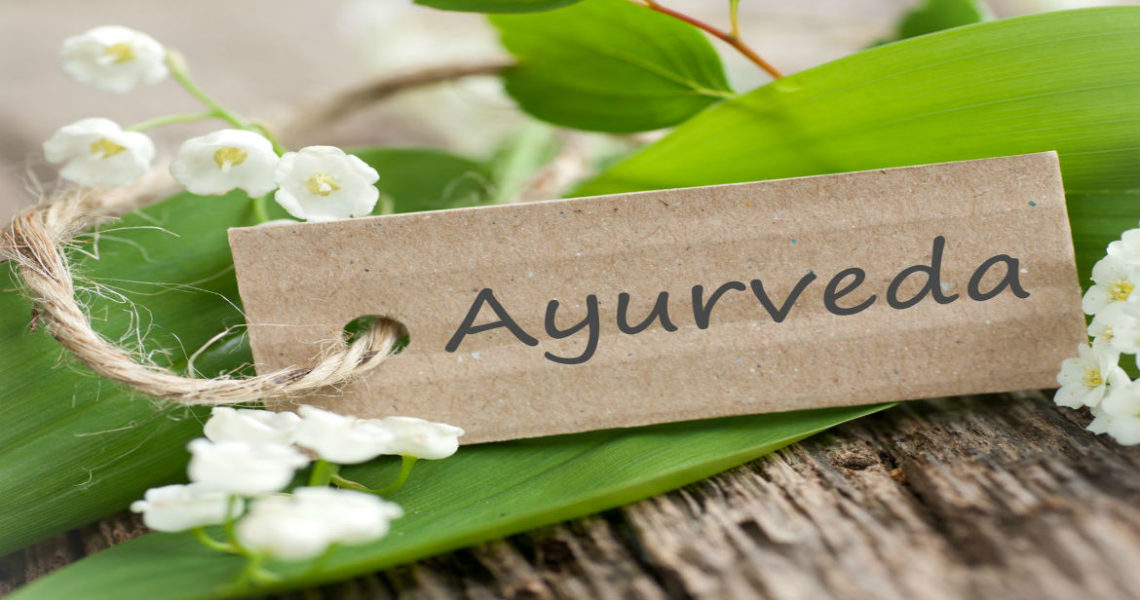
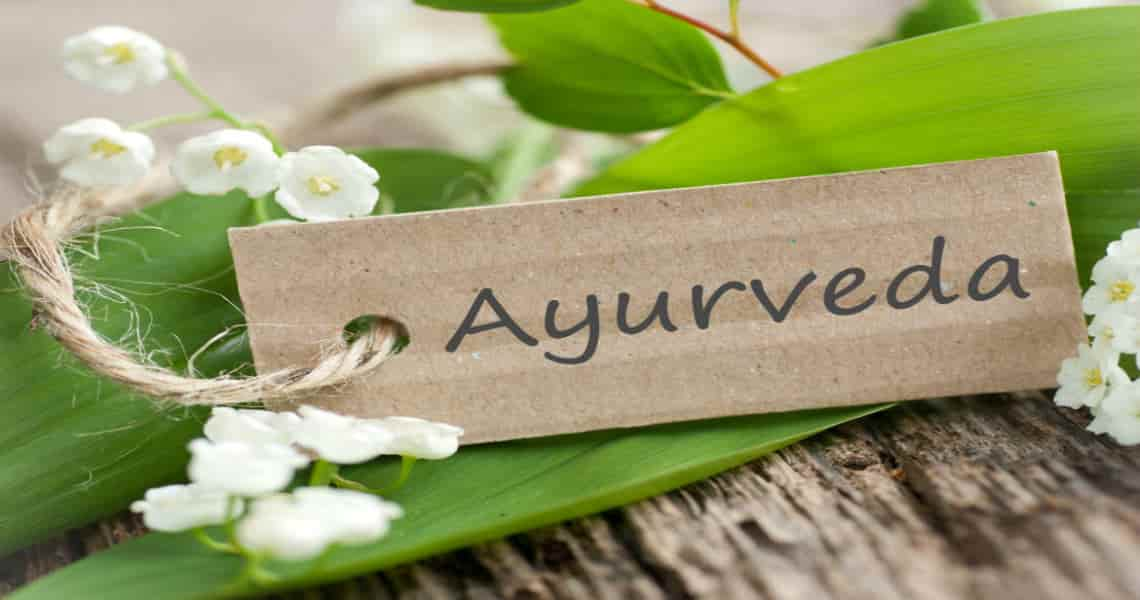
optimized images

Changed region(s): [[0.0, 0.42, 0.0614, 0.45], [0.9825, 0.48, 1.0, 0.51], [0.0921, 0.48, 0.1228, 0.51]]

diff --git a/assets/css/style.css b/assets/css/style.css
@@ -315,7 +315,7 @@ a.back-to-top:hover, a.back-to-top:focus {
 
 .site-logo h2 {
   font-family: 'Yeseva One', cursive;
-  color: #fff;
+  color: #43A047;
   font-weight: 700;
   font-size: 34px;
   line-height: 10px;
@@ -1462,6 +1462,7 @@ figure.single-portfolio:hover figcaption {
 
 #contactForm .form-control {
   background-size: 0 2px, 100% 2px;
+  border-bottom: 1px solid #000;
   font-weight: 500;
 }
 
@@ -2120,19 +2121,20 @@ section#testimonial {
   opacity: 1;
   /* width: 100%;
   height: auto; */
-  -webkit-transform: scale(1);
-  -ms-transform: scale(1);
-  transform: scale(1);
+  -webkit-transform: scale(1.15);
+  -ms-transform: scale(1.15);
+  transform: scale(1.15);
   -webkit-transition: all .5s;
   -o-transition: all .5s;
   transition: all 3s;
 }
 
+
 .services-photo img:hover {
-  -webkit-transform: scale(0.9);
-  -ms-transform: scale(0.9);
-  transform: scale(0.9);
-  opacity: 0.8;
+  -webkit-transform: scale(1.03);
+  -ms-transform: scale(1.03);
+  transform: scale(1.03);
+  opacity: 0.9;
 }
 
 #services {
@@ -2159,7 +2161,7 @@ section#testimonial {
   -webkit-transform: scale(1);
   -ms-transform: scale(1);
   transform: scale(1);
-  opacity: 0.8;
+  opacity: 0.9;
 }
 
 .shake {
@@ -2182,14 +2184,11 @@ section#testimonial {
 
 .vora-about-section, .vora-contact-section {
 
-  background-image: linear-gradient(rgba(0,0,0,0.1), rgba(0,0,0,0.1)), url(../images/cover-image-2.png);
+  background-image: linear-gradient(rgba(211,211,211,0.9), rgba(211,211,211,0.9)), url(../images/cover-image-2.jpg);
   background-size: cover;
   /* color: #fff; */
   /* background-attachment: fixed; */
-
-  /* background: radial-gradient(1.5em 6.28571em at 1.95em, rgba(255, 255, 255, 0) 50%, rgba(255, 255, 255, 0.25) 50%, rgba(255, 255, 255, 0.25) 55%, rgba(255, 255, 255, 0) 55%) 0 0, radial-gradient(1.5em 6.28571em at -0.45em, rgba(255, 255, 255, 0) 50%, rgba(255, 255, 255, 0.25) 50%, rgba(255, 255, 255, 0.25) 55%, rgba(255, 255, 255, 0) 55%) 1.5em 5.5em, radial-gradient(2.3em 4.57143em at 2.99em, rgba(255, 255, 255, 0) 50%, rgba(255, 255, 255, 0.3) 50%, rgba(255, 255, 255, 0.3) 55%, rgba(255, 255, 255, 0) 55%) 0 0, radial-gradient(2.3em 4.57143em at -0.69em, rgba(255, 255, 255, 0) 50%, rgba(255, 255, 255, 0.3) 50%, rgba(255, 255, 255, 0.3) 55%, rgba(255, 255, 255, 0) 55%) 2.3em 4em, radial-gradient(3.5em 6.28571em at 4.55em, rgba(255, 255, 255, 0) 50%, rgba(255, 255, 255, 0.25) 50%, rgba(255, 255, 255, 0.25) 55%, rgba(255, 255, 255, 0) 55%) 0 0, radial-gradient(3.5em 6.28571em at -1.05em, rgba(255, 255, 255, 0) 50%, rgba(255, 255, 255, 0.25) 50%, rgba(255, 255, 255, 0.25) 55%, rgba(255, 255, 255, 0) 55%) 3.5em 5.5em, radial-gradient(#15ffa5, #00ced1);
-  background-color: rgb(67, 160, 71);
-  background-size: 1.5em 11em, 1.5em 11em, 2.3em 8em, 2.3em 8em, 3.5em 11em, 3.5em 11em, 100% 100%;
-  background-repeat: repeat; */
+  
 }
+
 

diff --git a/index.html b/index.html
@@ -243,7 +243,7 @@
 
 
         <!-- Services Section -->
-        <section class="section-dark" id="services">
+        <section id="services">
             <div class="container ">
                 
                     <!-- Section Titile -->
@@ -746,7 +746,7 @@
         <!-- Testimonial Section End -->
 
         <!-- Our Gallery Section -->
-        <section class="section-padding section-dark" id="gallery">
+        <section class="section-padding" id="gallery">
             <div class="container">
                     <div class="row">
                             <div class="col-md-12 ">
@@ -1035,7 +1035,7 @@
         <!-- Preloader -->
         <div id="loader">
           <div class="square-spin">
-            <img src="assets/images/Preloader.gif" alt="Proloader">
+            <img src="assets/images/preloader.gif" alt="Proloader">
           </div>
         </div>
         
